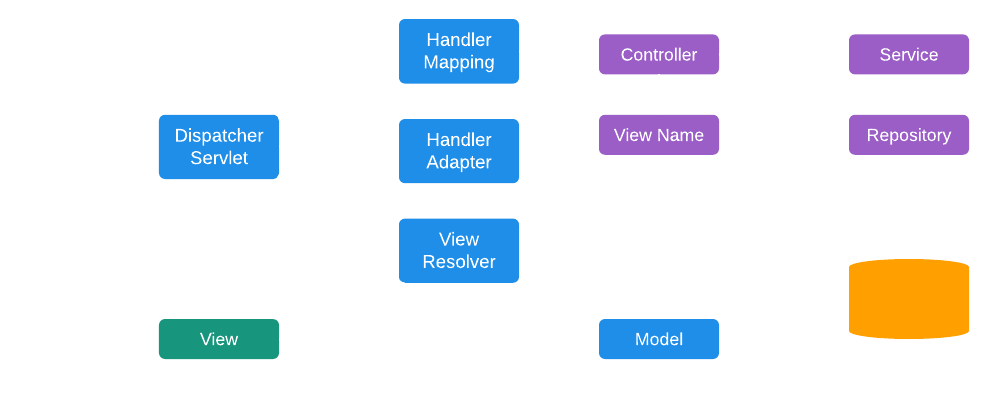
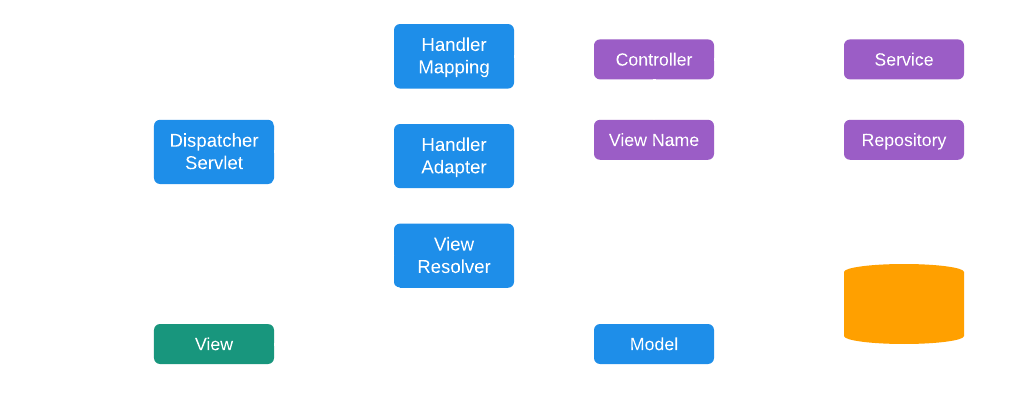
Add pic

diff --git a/EN/04-Spring-Introduction-MVC/01-What-is-Spring-MVC.md b/EN/04-Spring-Introduction-MVC/01-What-is-Spring-MVC.md
@@ -54,7 +54,7 @@ When the service **provides** the needed data to the controller, by using "**Vie
 [slide hideTitle]
 # MVC - Control Flow
 
-## Add the presentation picture
+[image assetsSrc="Java-Spring-Fund-MVC-19.jpg" /]
 
 In the picture above a request is sent by a web client (browser), but also a request could be made by an android application.
 
